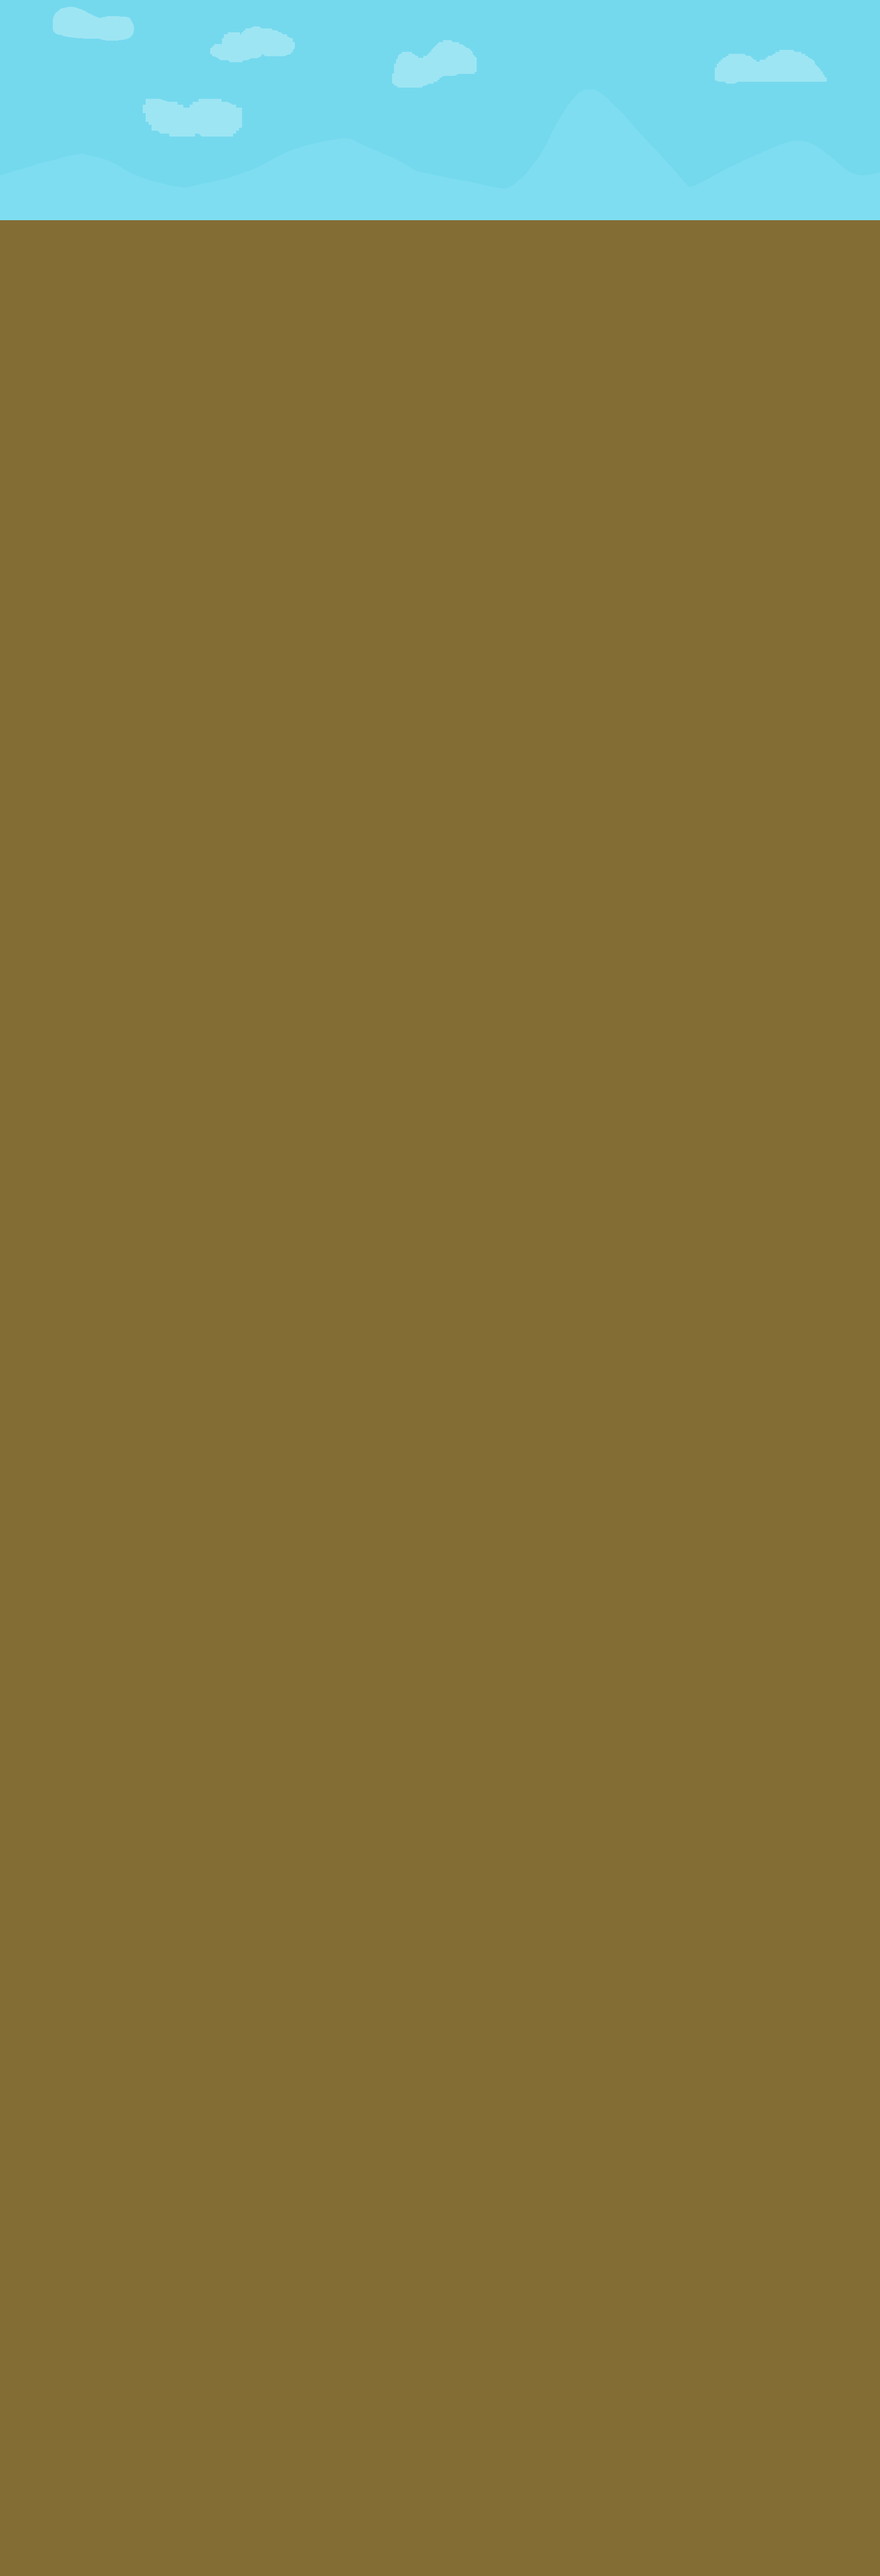
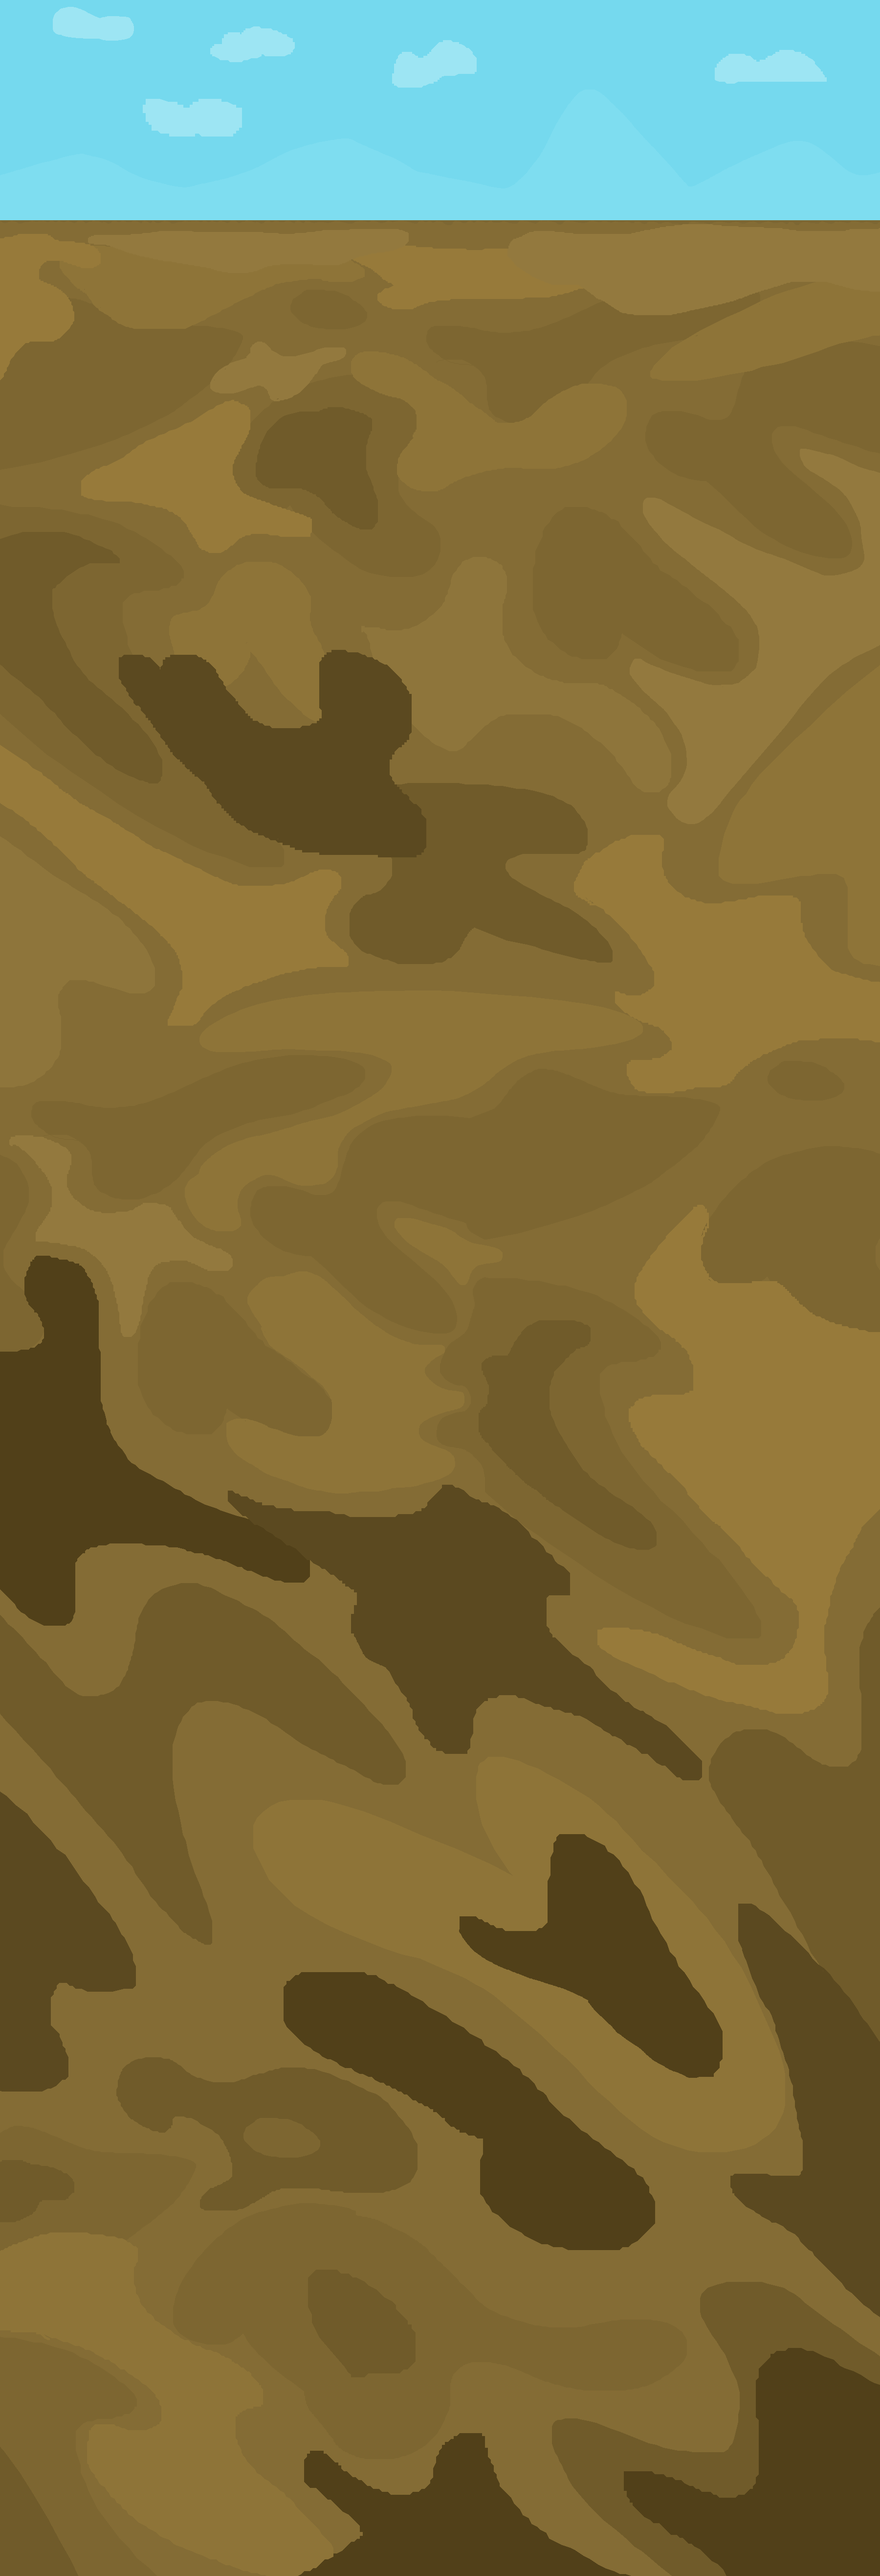
temp assets added and started fossil manager

diff --git a/PaleoPals/PaleoPals/Fossil.cpp b/PaleoPals/PaleoPals/Fossil.cpp
@@ -1,0 +1,213 @@
+#include "Fossil.h"
+#include <iostream>
+#include <fstream>
+#include <random>
+#include <algorithm>
+#include <json.hpp>
+
+using json = nlohmann::json;
+
+FossilManager::FossilManager()
+{
+}
+
+bool FossilManager::loadFossilsFromConfig(const std::string& filepath)
+{
+    std::ifstream file(filepath);
+
+    if (!file.is_open())
+    {
+        std::cerr << "Failed to open JSON config for fossils: " << filepath << std::endl;
+        return false;
+    }
+
+    try
+    {
+        json config;
+        file >> config;
+
+        if (!config.contains("dinosaurs"))
+        {
+            std::cerr << "No dinosaurs section found in config\n";
+            return false;
+        }
+
+        auto dinosaurs = config["dinosaurs"];
+
+        for (auto& dinoNode : dinosaurs)
+        {
+            DinosaurData dino;
+            dino.name = dinoNode["name"].get<std::string>();
+            dino.category = dinoNode["category"].get<std::string>();
+            dino.backgroundTexture = dinoNode["background"].get<std::string>();
+
+            for (auto& pieceNode : dinoNode["pieces"])
+            {
+                DinosaurData::Piece piece;
+                piece.id = pieceNode["id"].get<std::string>();
+                piece.texturePath = pieceNode["texture"].get<std::string>();
+                dino.pieces.push_back(piece);
+            }
+
+            m_dinosaurData.push_back(std::move(dino));
+        }
+
+        std::cout << "Loaded " << m_dinosaurData.size() << " dinosaur species\n";
+    }
+    catch (const std::exception& e)
+    {
+        std::cerr << "Error loading JSON fossil config: " << e.what() << std::endl;
+        return false;
+    }
+
+    return true;
+}
+
+void FossilManager::generateFossils(int totalRows, int totalCols, float tileSize, float windowWidth, float windowHeight)
+{
+    m_fossilPieces.clear();
+    m_fossilTextures.clear();
+
+    float offsetY = windowHeight / 2.0f;
+    float offsetX = (windowWidth - (totalCols * tileSize)) / 2.0f;
+
+    // Random number generator
+    std::random_device rd;
+    std::mt19937 gen(rd());
+
+    // We'll skip the first few rows (topsoil area) and place fossils deeper
+    int minRow = 3; // Start placing fossils from row 3 onwards
+
+    std::uniform_int_distribution<> rowDist(minRow, totalRows - 1);
+    std::uniform_int_distribution<> colDist(0, totalCols - 1);
+
+    // Place each fossil piece randomly
+    for (const auto& dino : m_dinosaurData)
+    {
+        for (const auto& piece : dino.pieces)
+        {
+            // Load texture
+            sf::Texture texture;
+            if (!texture.loadFromFile(piece.texturePath))
+            {
+                std::cerr << "Failed to load fossil texture: " << piece.texturePath << std::endl;
+                continue;
+            }
+
+            // Find a unique position for this fossil
+            int row, col;
+            int attempts = 0;
+            const int maxAttempts = 100;
+
+            do
+            {
+                row = rowDist(gen);
+                col = colDist(gen);
+                attempts++;
+            } while (isPositionOccupied(row, col) && attempts < maxAttempts);
+
+            if (attempts >= maxAttempts)
+            {
+                std::cerr << "Could not find free position for " << piece.id << std::endl;
+                continue;
+            }
+
+            // Calculate world position (center of the tile)
+            float xPos = col * tileSize + offsetX + (tileSize / 2.0f);
+            float yPos = row * tileSize + offsetY + (tileSize / 2.0f);
+
+            // Store texture (needed to keep texture alive)
+            m_fossilTextures.push_back(std::move(texture));
+            const sf::Texture& texRef = m_fossilTextures.back();
+
+            // Create fossil piece
+            FossilPiece fossil(texRef, sf::Vector2f(xPos, yPos),
+                piece.id, dino.name, dino.category, row, col);
+
+            // Scale fossil to fit within tile (slightly smaller than tile)
+            float scaleX = (tileSize * 0.8f) / texRef.getSize().x;
+            float scaleY = (tileSize * 0.8f) / texRef.getSize().y;
+            float scale = std::min(scaleX, scaleY);
+            fossil.sprite.setScale(sf::Vector2f(scale, scale));
+
+            // Center the sprite origin
+            fossil.sprite.setOrigin(sf::Vector2f(texRef.getSize().x / 2.0f, texRef.getSize().y / 2.0f));
+
+            m_fossilPieces.push_back(std::move(fossil));
+        }
+    }
+
+    std::cout << "Generated " << m_fossilPieces.size() << " fossil pieces\n";
+}
+
+void FossilManager::drawFossils(sf::RenderWindow& window)
+{
+    for (auto& fossil : m_fossilPieces)
+    {
+        // Only draw undiscovered fossils (they'll be hidden until dug up)
+        // For now, we'll make them semi-transparent so you can see them during testing
+        if (!fossil.isDiscovered)
+        {
+            // Make fossils slightly visible for testing (change alpha to 0 in final game)
+            fossil.sprite.setColor(sf::Color(255, 255, 255, 100));
+        }
+        else
+        {
+            fossil.sprite.setColor(sf::Color::White);
+        }
+
+        window.draw(fossil.sprite);
+    }
+}
+
+FossilPiece* FossilManager::getFossilAtTile(int row, int col)
+{
+    for (auto& fossil : m_fossilPieces)
+    {
+        if (fossil.gridRow == row && fossil.gridCol == col && !fossil.isDiscovered)
+        {
+            return &fossil;
+        }
+    }
+    return nullptr;
+}
+
+std::vector<FossilPiece*> FossilManager::getDiscoveredPiecesForDinosaur(const std::string& dinoName)
+{
+    std::vector<FossilPiece*> pieces;
+
+    for (auto& fossil : m_fossilPieces)
+    {
+        if (fossil.dinosaurName == dinoName && fossil.isDiscovered)
+        {
+            pieces.push_back(&fossil);
+        }
+    }
+
+    return pieces;
+}
+
+int FossilManager::getDiscoveredCount() const
+{
+    int count = 0;
+    for (const auto& fossil : m_fossilPieces)
+    {
+        if (fossil.isDiscovered)
+        {
+            count++;
+        }
+    }
+    return count;
+}
+
+bool FossilManager::isPositionOccupied(int row, int col) const
+{
+    for (const auto& fossil : m_fossilPieces)
+    {
+        if (fossil.gridRow == row && fossil.gridCol == col)
+        {
+            return true;
+        }
+    }
+    return false;
+}

diff --git a/PaleoPals/PaleoPals/Fossil.h b/PaleoPals/PaleoPals/Fossil.h
@@ -1,0 +1,79 @@
+#pragma once
+#ifndef FOSSIL_H
+#define FOSSIL_H
+
+#include <SFML/Graphics.hpp>
+#include <string>
+#include <vector>
+
+// Represents a single fossil piece in the world
+class FossilPiece
+{
+public:
+    sf::Sprite sprite;
+    std::string fossilId;        
+    std::string dinosaurName;    
+    std::string category;        
+    bool isDiscovered = false;
+    int gridRow;                 // Which tile row it's behind
+    int gridCol;                 // Which tile col it's behind
+
+    FossilPiece(const sf::Texture& texture, const sf::Vector2f& pos,
+        const std::string& id, const std::string& dinoName,
+        const std::string& cat, int row, int col)
+        : sprite(texture), fossilId(id), dinosaurName(dinoName),
+        category(cat), gridRow(row), gridCol(col)
+    {
+        sprite.setPosition(pos);
+    }
+
+    FossilPiece() = delete;
+};
+
+// Holds data for a dinosaur species from JSON
+struct DinosaurData
+{
+    std::string name;
+    std::string category;
+    std::string backgroundTexture;
+
+    struct Piece
+    {
+        std::string id;
+        std::string texturePath;
+    };
+
+    std::vector<Piece> pieces;
+};
+
+// Manages all fossils in the game
+class FossilManager
+{
+public:
+    FossilManager();
+
+    bool loadFossilsFromConfig(const std::string& filepath);
+
+    void generateFossils(int totalRows, int totalCols, float tileSize,
+        float windowWidth, float windowHeight);
+
+    void drawFossils(sf::RenderWindow& window);
+
+    // Check if a fossil exists at this tile position
+    FossilPiece* getFossilAtTile(int row, int col);
+
+    // Get all discovered fossils for a specific dinosaur
+    std::vector<FossilPiece*> getDiscoveredPiecesForDinosaur(const std::string& dinoName);
+
+    int getTotalFossilCount() const { return m_fossilPieces.size(); }
+    int getDiscoveredCount() const;
+
+private:
+    std::vector<DinosaurData> m_dinosaurData;
+    std::vector<sf::Texture> m_fossilTextures;
+    std::vector<FossilPiece> m_fossilPieces;
+
+    bool isPositionOccupied(int row, int col) const;
+};
+
+#endif // FOSSIL_H

diff --git a/PaleoPals/PaleoPals/Map.cpp b/PaleoPals/PaleoPals/Map.cpp
@@ -53,6 +53,11 @@ bool Map::loadMapFromConfig(const std::string& filepath)
                 return false;
             }
         }
+        if (!m_fossilManager.loadFossilsFromConfig(filepath))
+        {
+            std::cerr << "Failed to load fossils\n";
+            return false;
+        }
 
     }
     catch (const std::exception& e)
@@ -102,6 +107,15 @@ void Map::generateGrid(int rows, int cols, float tileSize, float windowWidth, fl
     }
 
 	m_rowsGenerated += rows;
+
+    //gen fossils
+
+    if (m_rowsGenerated >= m_rows)
+    {
+        m_fossilManager.generateFossils(m_rows, m_cols, m_tileSize, windowWidth, windowHeight);
+
+        std::cout << "fossils generated" << std::endl;
+    }
 }
 
 int Map::determineLayerAtDepth(int row, int totalRows)
@@ -216,6 +230,8 @@ void Map::drawMap(sf::RenderWindow& window)
 {
     window.draw(m_backgroundSprite);
 
+    m_fossilManager.drawFossils(window);
+
     for (auto& tile : m_tiles)
     {
         window.draw(tile.sprite);
@@ -280,10 +296,20 @@ void Map::handleMouseHold(const sf::RenderWindow& window, float tileSize, int co
         if (m_tiles[index].sprite.getColor() != sf::Color::Transparent)
         {
             m_tiles[index].sprite.setColor(sf::Color::Transparent);
-            std::cout << "Tile at index " << index << " removed\n";
+
+            FossilPiece* fossil = m_fossilManager.getFossilAtTile(tileY, tileX);
+
+            if (fossil != nullptr)
+            {
+                fossil->isDiscovered = true;
+                std::cout << "FOSSIL DISCOVERED! " << fossil->fossilId << " from " << fossil->dinosaurName << "\n";
+            }
+            else
+            {
+                std::cout << "Tile at index " << index << " removed\n";
+            }
         }
     }
-
 }
 
 void Map::updateMuseum(sf::RenderWindow& window)

diff --git a/PaleoPals/PaleoPals/Map.h b/PaleoPals/PaleoPals/Map.h
@@ -9,6 +9,7 @@
 #include "constants.h"
 #include "Museum.h"
 #include "Trader.h"
+#include "Fossil.h"
 
 struct LayerType
 {
@@ -65,6 +66,9 @@ public:
     int getColumnCount() const { return m_cols; }
     float getTileSize() const { return m_tileSize; }
 
+    //fossil system
+    FossilManager& getFossilManager() { return m_fossilManager; }
+
 private:
 
 	sf::Texture m_backgroundTexture;
@@ -90,5 +94,7 @@ private:
 
     Museum m_museum;
     Trader m_trader;
+
+    FossilManager m_fossilManager;  
 };
 #endif // !MAP_H

diff --git a/PaleoPals/PaleoPals/Game.cpp b/PaleoPals/PaleoPals/Game.cpp
@@ -231,7 +231,7 @@ void Game::setupMap()
     }
 
     int cols = 75;
-    int totalRows = 40;
+    int totalRows = 200;
     float tileSize = 24.0f; // 24x24 pixels per tile
 
     //m_map.setMapDimensions(totalRows, cols, tileSize, WINDOW_X, WINDOW_Y);

diff --git a/PaleoPals/PaleoPals/Game.h b/PaleoPals/PaleoPals/Game.h
@@ -42,7 +42,7 @@ private:
     sf::RenderWindow m_window; // main SFML window
     sf::View m_cameraView;
 
-    float cameraSpeed = 100.0f;
+    float cameraSpeed = 400.0f;
 
     GameState m_currentState{ GameState::MainMenu };
 
